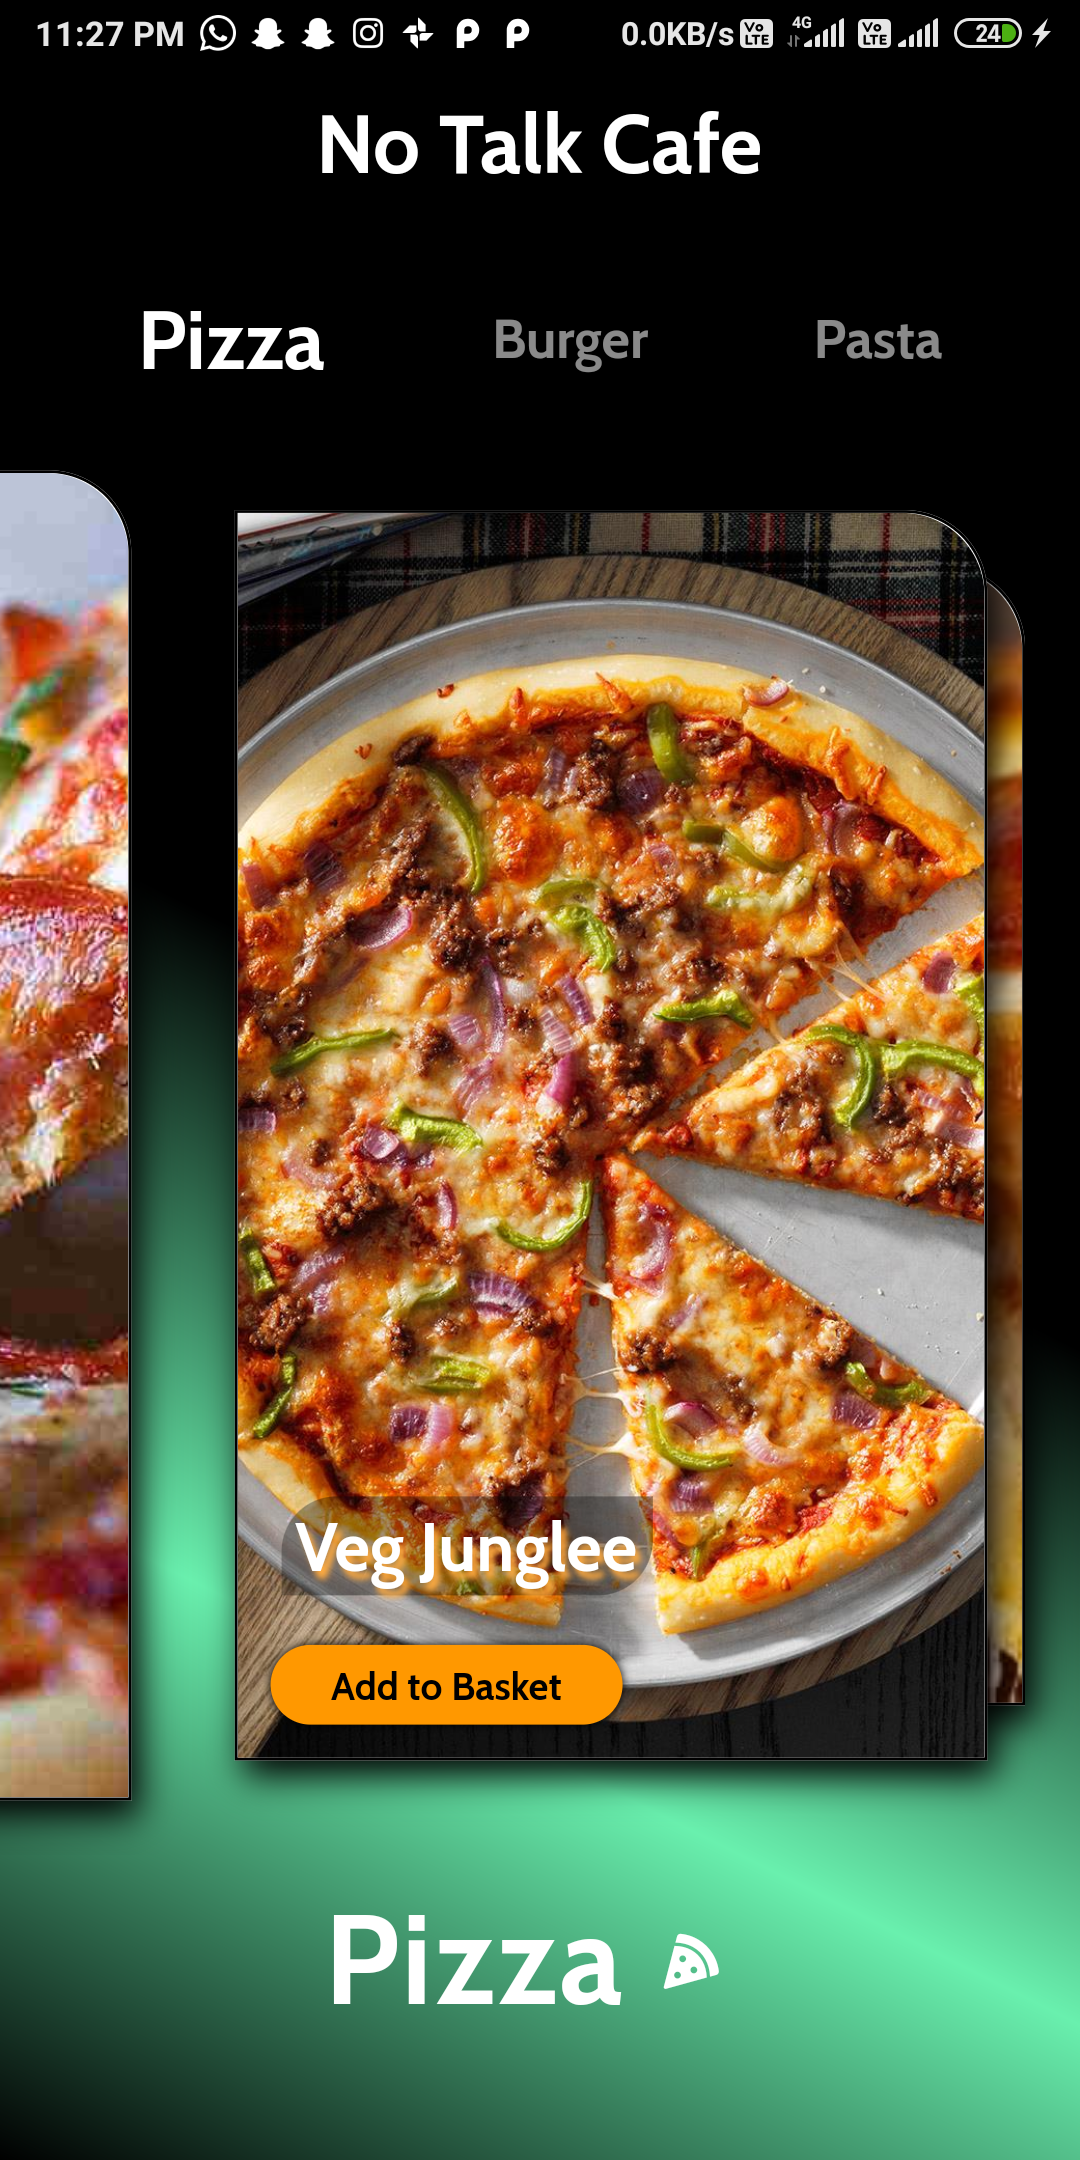
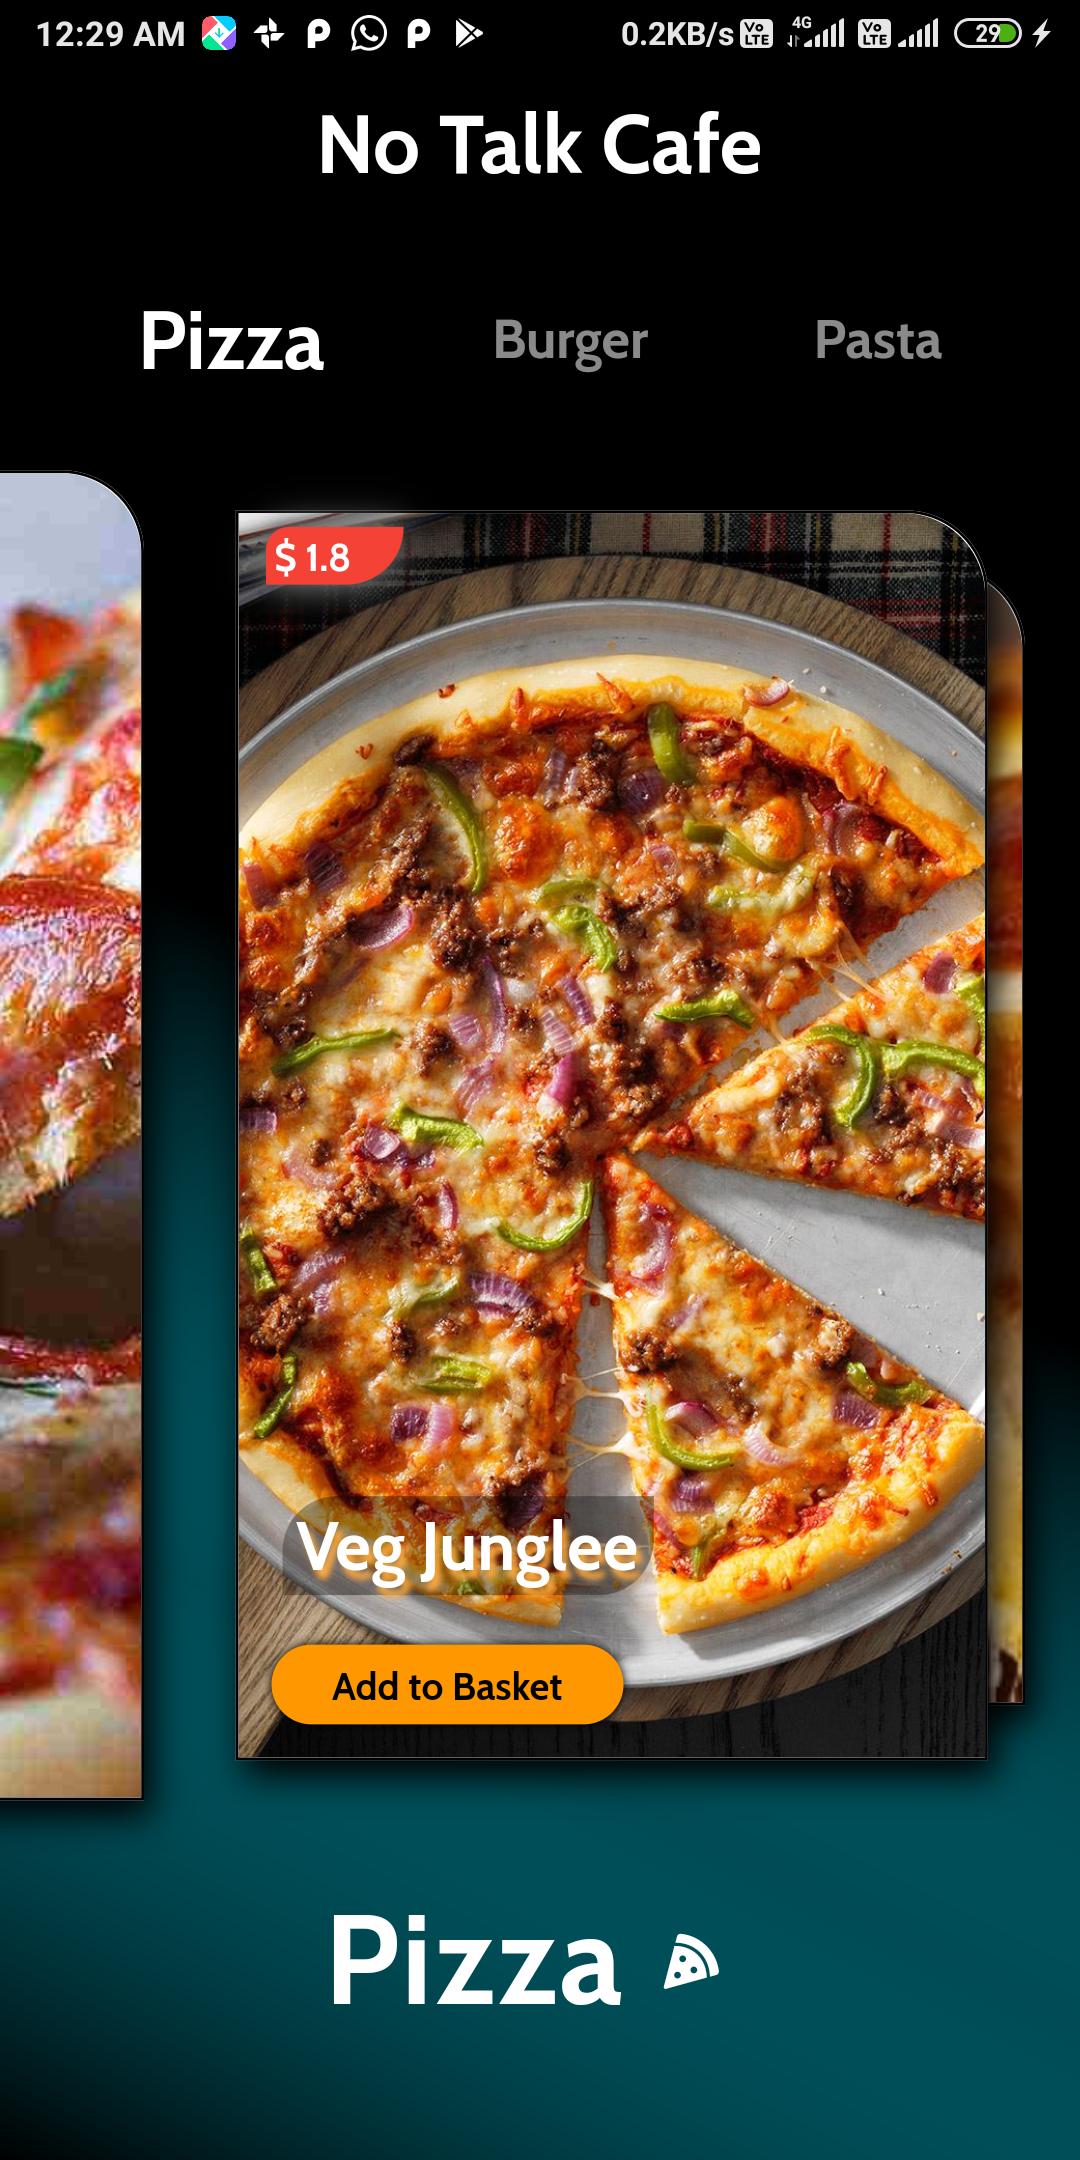
Color Changed,Price Added,Orientation Locked

diff --git a/lib/main.dart b/lib/main.dart
@@ -1,10 +1,19 @@
 import 'package:flutter/material.dart';
 import 'package:flutter/widgets.dart';
+import 'package:flutter/services.dart';
 import 'package:font_awesome_flutter/font_awesome_flutter.dart';
 import 'dart:ui';
 import 'dart:math' as math;
 
-void main() => runApp(FlutterUI());
+void main() {
+  
+  SystemChrome.setPreferredOrientations([DeviceOrientation.portraitUp])
+    .then((_) {
+      runApp(new FlutterUI());
+    });
+}
+
+//void main() => runApp(FlutterUI());
 
 class FlutterUI extends StatelessWidget {
   @override
@@ -48,7 +57,7 @@ class _MenuPageState extends State<MenuPage> {
           gradient: LinearGradient(
               colors: [
                 Colors.black,
-                (diffval==1)?Colors.greenAccent:(diffval==2)?Colors.red:Colors.blueGrey,
+                (diffval==1)?Colors.cyan.withOpacity(0.4):(diffval==2)?Colors.red:Colors.blueGrey,
                 Colors.black,
                 Colors.black,
                 Colors.black,
@@ -82,7 +91,6 @@ class _MenuPageState extends State<MenuPage> {
                       onTap: (){
                         setState(() {
                           diffval = 1;
-                          //currentPage = imagespizza.length - 1.0;
                         });
                         MaterialPageRoute(builder: (context)=>build(context));
                         print(diffval);
@@ -96,7 +104,6 @@ class _MenuPageState extends State<MenuPage> {
                       onTap: (){
                         setState(() {
                           diffval = 2;
-                          //currentPage = imagesBurger.length - 1.0;
                         });
                         MaterialPageRoute(builder: (context)=>build(context));
                         print(diffval);
@@ -110,7 +117,6 @@ class _MenuPageState extends State<MenuPage> {
                       onTap: (){
                         setState(() {
                           diffval = 3;
-                          currentPage = imagespasta.length - 0.0;
                         });
                         MaterialPageRoute(builder: (context)=>build(context));
                         print(diffval);
@@ -161,7 +167,6 @@ class _MenuPageState extends State<MenuPage> {
                   ],
                 ),
               ),
-             
             ],
           ),
         ),
@@ -239,6 +244,33 @@ class CardScrollWidget extends StatelessWidget {
                             topRight: Radius.circular(30.0)
                           ),
                         child: Image.asset(images[i], fit: BoxFit.cover),
+                      ),
+                      Align(
+                        alignment: Alignment.topLeft,
+                          child: Container(
+                            width: 50.0,
+                            padding: EdgeInsets.symmetric(vertical: 2.0,horizontal: 3.0),
+                            margin: EdgeInsets.symmetric(vertical: 5.0,horizontal: 10.0),
+                            decoration: BoxDecoration(
+                              borderRadius: BorderRadius.only(
+                                topLeft: Radius.circular(20.0),
+                                bottomRight: Radius.circular(50.0),
+                              ),
+                              boxShadow: [
+                                BoxShadow(
+                                  color: Colors.black,
+                                  blurRadius: 6.0,
+                                ),
+                                
+                                BoxShadow(
+                                  color: Colors.white60,
+                                  blurRadius: 10.0,
+                                )
+                              ],
+                              color: Colors.red
+                            ),
+                            child: Text(price[i],style: TextStyle(color: Colors.white)),
+                          ),
                       ),
                       Align(
                         alignment: Alignment.bottomLeft,
@@ -336,6 +368,12 @@ TextStyle activeText(){
     color: Colors.white
   );
 }
+
+List<String> price = [
+  '\$ 2',
+  '\$ 1.8',
+  '\$ 9',
+];
 
 List<String> imagespasta = [
   'speggod.jpg',
